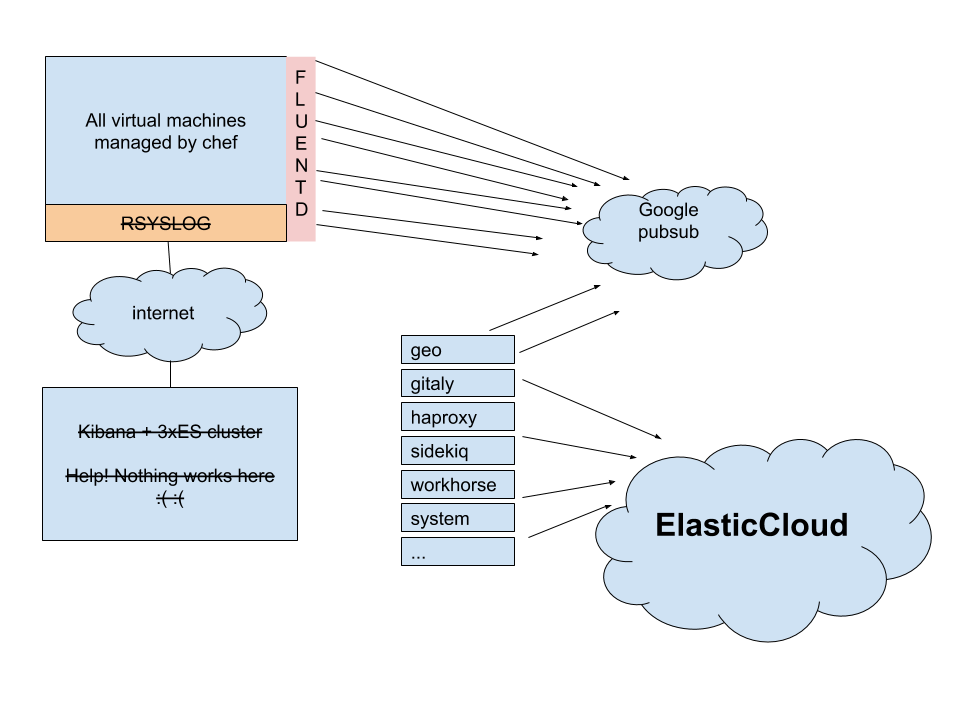
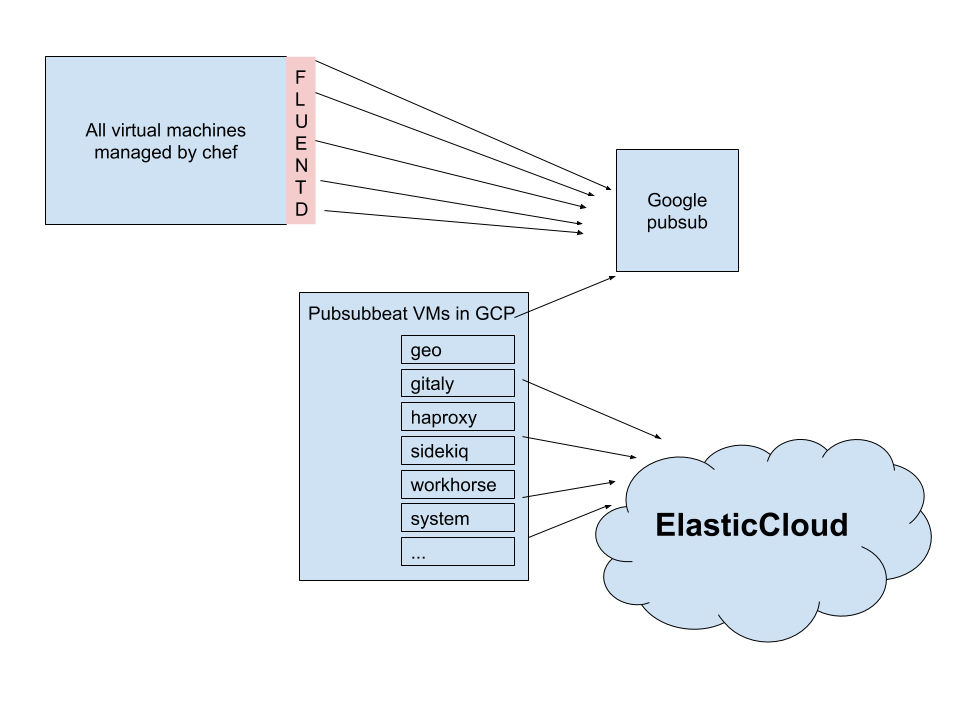
Jarv/add logging howto

diff --git a/howto/logging.md b/howto/logging.md
@@ -1,0 +1,106 @@
+# Application logging at gitlab
+
+## Summary
+
+**https://log.gitlab.net**
+
+Centralized logging at GitLab uses a combination of FluentD, google pubsub,
+and ElasticSearch / Kibana. All logs for the production, staging, gprd and
+gstg environments are forwarded to log.gitlab.net.
+
+![Logical scheme](../img/logging-infr.png)
+
+### What are we logging?
+
+| name | logfile  | type  | index | retention(d) |
+| -----| -------- |------ | ----- | --------- |
+| gitaly | gitaly/current | JSON | pubsub-gitaly-inf | 3
+| pages | gitlab-pages/current | JSON | pubsub-pages-inf | 6
+| db.postgres | postgresql/current | line regex | pubsub-postgres-inf | 6
+| db.pgbouncer | gitlab/pgbouncer/current | line regex | pubsub-postgres-inf | 6
+| workhorse | gitlab/gitlab-workhorse/current | JSON | pubsub-workhorse-inf | 3
+| api |gitlab-rails/api\_json.log | JSON | pubsub-api-inf | 6
+| geo | gitlab-rails/geo.log | JSON | pubsub-geo-inf | 6
+| production (rails) | gitlab-rails/production\_json.log | JSON | pubsub-production-inf | 6
+| sidekiq gitlab/sidekiq|cluster/current | JSON | pubsub-sidekiq-inf | 6
+| haproxy | /var/log/haproxy.log | syslog | pubsub-haproxy-inf | 3
+| system.auth | /var/log/auth.log | syslog | pubsub-system-inf | 6
+| system.syslog | /var/log/syslog | syslog | pubsub-system-inf | 6
+
+
+### FAQ
+
+#### How do I find the right logs for my service?
+
+* Navigate to https://log.gitlab.net
+* Select the appropriate index (see chart below).
+  * Azure production and GCP production logs are in the *gprd* `*-gprd*` indexes
+  * Azure staging and GCP staging logs are in the *gstg* `*-gstg*` indexes
+* Optionally filter by environment if you only want to see logs for azure or gcp.
+  * `+json.environment: prd` for Azure production
+  * `+json.environment: gprd` for Google production
+
+#### A user sees an error on GitLab com, how do I find logs for that user?
+
+* Select the `pubsub-production-inf-grpd*` index
+* Search for `+json.username: <user>`
+
+#### Why do we have these annoying json. prefixes?
+
+They are created by https://github.com/GoogleCloudPlatform/pubsubbeat , I don't see a way we can remove them without forking the project.
+
+
+### Configuration
+
+#### Cookbooks
+
+There are three cookbooks that configure logging on gitlab.com
+
+* gitlab-proxy - Sets up the nginx proxy so that users can access elastic cloud via log.gitlab.net
+* gitlab_fluentd - Sets up td-agent on all nodes, forwards logs to pubsub topics.
+* gitlab-elk - Sets up the pubsub beat which reads from the topics and forwards to elastic cloud.
+
+#### Role configuration
+
+* There is a [single role for all pubsub beats](https://dev.gitlab.org/cookbooks/chef-repo/blob/master/roles/gprd-infra-pubsub.json) per environment, the index is determined by the hostname which allows it to be dyamic.
+* Add  `recipe[gitlab_fluentd::<type>]` to the corresponding role to enable td-agent for the template
+* The [ops proxy role](https://dev.gitlab.org/cookbooks/chef-repo/blob/master/roles/ops-infra-log-proxy.json) configures the proxy vm that is the reverse proxy for elastic cloud.
+
+
+#### Terraform
+
+
+#### Adding a new logfile
+
+* Decide whether you want a new pubsub topic (which means a new index) or use an existing one
+* If you want to use an existing index simply update one of [fluentd templates](https://gitlab.com/gitlab-cookbooks/gitlab_fluentd/tree/master/templates/default) and add a section for the new log.
+* If youw ant to create a new index, first modify the `variables.tf` of the `gprd` and `gstg` environment so that there is a new topic and a new pubsubbeat to monitor it.
+* Add a new "name" and "machine type", see this example:
+
+```
+variable "pubsubbeats" {
+  type = "map"
+
+  default = {
+    "names"         = ["gitaly", "haproxy", "pages", "postgres", "production", "system", "workhorse", "geo", "sidekiq", "api"]
+    "machine_types" = ["n1-standard-8", "n1-standard-8", "n1-standard-4", "n1-standard-4", "n1-standard-8", "n1-standard-8", "n1-standard-8", "n1-standard-4", "n1-standard-8", "n1-standard-4"]
+  }
+}
+```
+
+* Note: try to use a small instance type and increase it if necessary.
+* Run terraform
+* If you are using a new index you will need to add a [new template to fluentd](https://gitlab.com/gitlab-cookbooks/gitlab_fluentd/tree/master/templates/default).
+* After the template is created, add the recipe to the nodes that have the logfile.
+
+### Monitoring and Troubleshooting
+
+* To ensure that pubsub messages are being consumed and sent to elasticsearch see the [stackdriver pubsub dashboards](https://app.google.stackdriver.com/monitoring/1088234/logging-pubsub-in-gprd?project=gitlab-production)
+* Monitoring of td-agent (TBD) https://gitlab.com/gitlab-com/migration/issues/390
+* Monitoring of pubsub (TBD) https://gitlab.com/gitlab-com/migration/issues/389
+
+#### Logs have stopped showing up on elastic search
+
+* Find the appropriate beat for the index, look for the vm that matches the index name
+* SSH to the vm and look at the `/var/log/pubsub/current` logfile to see if there are any errors.
+* If there are no errors check out the `/var/log/tg-agent` logfile on one of the nodes sending logs.
